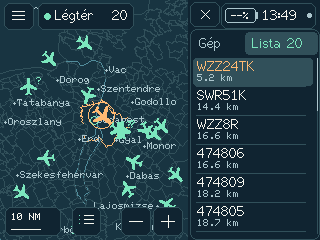
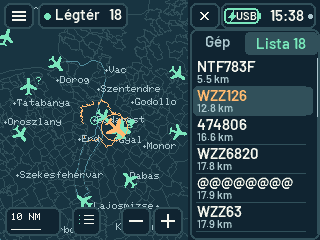
Refresh the gallery and USB installer with v1.0.1 device captures

diff --git a/index.html b/index.html
@@ -29,7 +29,7 @@
       <noscript>A telepítéshez engedélyezd a JavaScriptet. / Enable JavaScript to install via USB.</noscript>
     </section>
     <aside>
-      <figure><img src="./docs/images/airspace.png" width="320" height="240" alt="FlightDeck" data-alt><figcaption><span class="dot"></span><span data-t="caption">A FlightDeck légtérnézete a T-Decken</span></figcaption></figure>
+      <figure><img src="./docs/images/airspace.png?v=1.0.1" width="320" height="240" alt="FlightDeck" data-alt><figcaption><span class="dot"></span><span data-t="caption">A FlightDeck légtérnézete a T-Decken</span></figcaption></figure>
       <details><summary data-t="help">Nem csatlakozik a T-Deck?</summary><p data-t="boot">Tartsd lenyomva a trackball közepét, nyomd meg és engedd el az RST gombot, majd engedd el a trackballt. Próbáld meg újra a csatlakozást. Ha a port nem jelenik meg, ellenőrizd az adatkábelt, és zárd be a portot használó többi alkalmazást.</p></details>
       <a class="manual" href="https://github.com/janix12/T-Deck-FlightDeck/releases/tag/v1.0.1" data-t="manual">Firmware letöltése és kézi telepítés ↗</a>
     </aside>

diff --git a/README.hu.md b/README.hu.md
@@ -10,11 +10,13 @@ Nézd meg, melyik település fölött jár egy repülő. A FlightDeck a LilyGO 
 
 | Légtér Budapest körül | Közeli gépek távolság szerint |
 |:---:|:---:|
-| ![Repülőikonok Budapest környékének térképén](docs/images/airspace.png) | ![Görgethető géplista a térkép mellett](docs/images/flights.png) |
+| ![Repülőikonok Budapest környékének térképén](docs/images/airspace.png?v=1.0.1) | ![Görgethető géplista a térkép mellett](docs/images/flights.png?v=1.0.1) |
 | **Közép-európai esőradar** | **Felszínközeli léghőmérséklet** |
-| ![RainViewer csapadékréteg Közép-Európa felett](docs/images/rain.png) | ![Budapest környéki hőmérséklet repülőtéri észlelésekből](docs/images/temperature.png) |
+| ![RainViewer csapadékréteg Közép-Európa felett](docs/images/rain.png?v=1.0.1) | ![Budapest környéki hőmérsékleti térkép](docs/images/temperature.png?v=1.0.1) |
+| **Főmenü** | **Időzóna beállítása** |
+| ![A főmenü a légtértérkép fölött](docs/images/menu.png) | ![Időzóna szerkesztése a Mentés és Mégse gombokkal](docs/images/time-zone.png) |
 
-A képek a T-Deck kijelzőjéről származnak, a nyilvános budapesti térképközépponttal. A felület nyelve a **Beállítások → Nyelv** sorban váltható.
+A képek a FlightDeck v1.0.1-et futtató T-Deck kijelzőjéről származnak. A térképek középpontja Budapest. A felület nyelve a **Beállítások → Nyelv** sorban váltható.
 
 ## Mire van szükséged?
 

diff --git a/README.md b/README.md
@@ -10,11 +10,13 @@ See which town an aircraft is flying over. FlightDeck turns the 320 × 240 displ
 
 | Airspace around Budapest | Nearby flights, sorted by distance |
 |:---:|:---:|
-| ![Aircraft silhouettes on the map around Budapest](docs/images/airspace.png) | ![Scrollable flight list beside the map](docs/images/flights.png) |
+| ![Aircraft silhouettes on the map around Budapest](docs/images/airspace.png?v=1.0.1) | ![Scrollable flight list beside the map](docs/images/flights.png?v=1.0.1) |
 | **Rain radar over Central Europe** | **Surface air temperature** |
-| ![RainViewer precipitation overlay across Central Europe](docs/images/rain.png) | ![Estimated temperature around Budapest from airport observations](docs/images/temperature.png) |
+| ![RainViewer precipitation overlay across Central Europe](docs/images/rain.png?v=1.0.1) | ![Temperature map around Budapest](docs/images/temperature.png?v=1.0.1) |
+| **Main menu** | **Time zone settings** |
+| ![Main menu open over the flight map](docs/images/menu.png) | ![Time zone editor with Save and Cancel buttons](docs/images/time-zone.png) |
 
-These are captures from a T-Deck using the public Budapest map centre. The screens shown are in Hungarian. Select **Beállítások → Nyelv → English** for the English interface.
+These screens were captured on a T-Deck running FlightDeck v1.0.1. The maps are centred on Budapest. The screens shown are in Hungarian. Select **Beállítások → Nyelv → English** for the English interface.
 
 ## What you need
 
